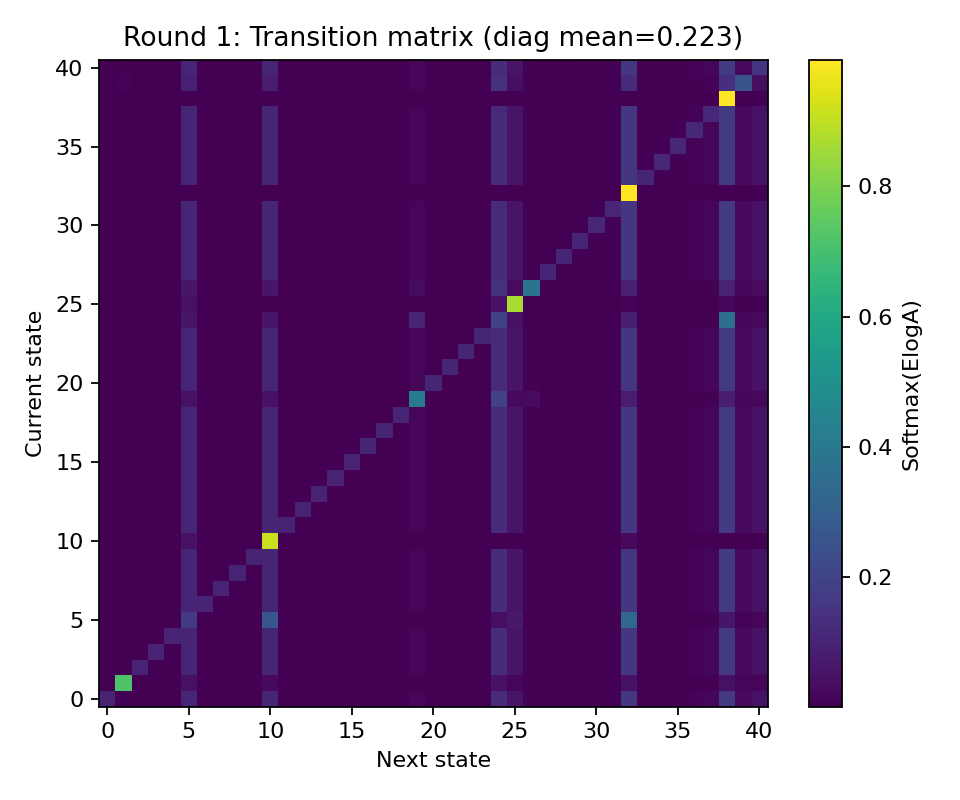
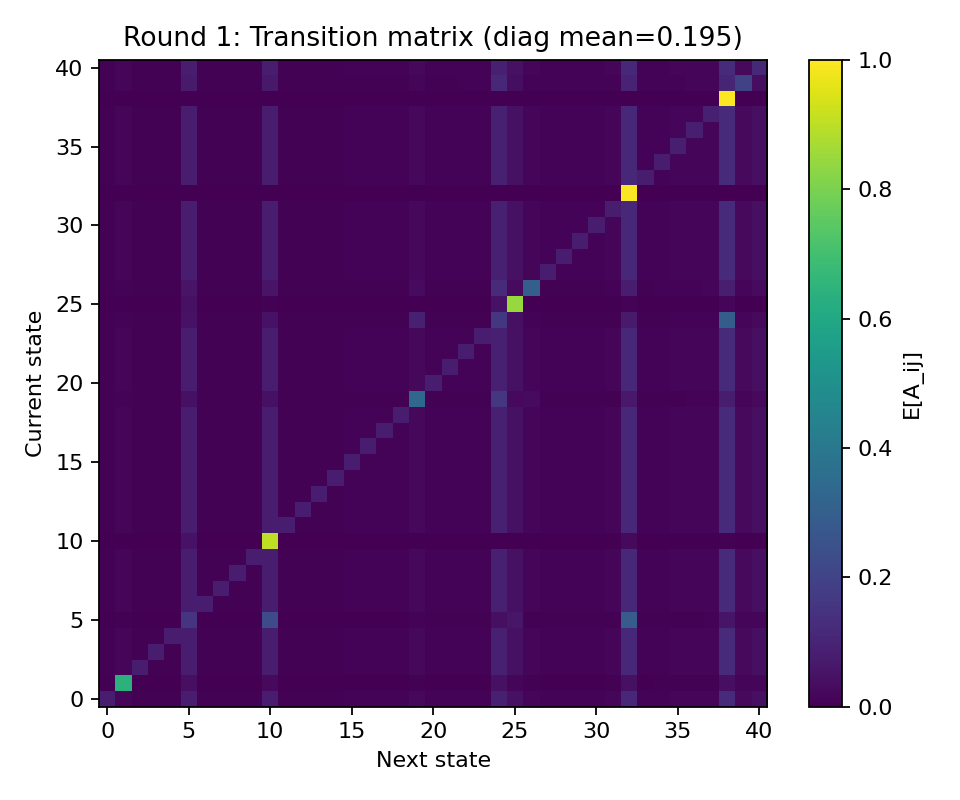
back up

diff --git a/utils/analysis.py b/utils/analysis.py
@@ -1964,13 +1964,30 @@ def _collect_sample_rasters(model, dataset, device, hmm: StickyHDPHMMVI, max_seq
     return rasters, lengths
 
 @torch.no_grad()
-def compute_hmm_diagnostics(model, dataset, device, hmm: StickyHDPHMMVI, max_batches: int = 5, logger=None):
+def compute_hmm_diagnostics(model, dataset, device, hmm: StickyHDPHMMVI, max_batches: int = 5, logger=None, random_seed: int = 42):
     """
     Compute HMM diagnostics on a subset of the dataset
+    
+    Args:
+        model: VAE model for encoding
+        dataset: Dataset to sample from
+        device: Device to run on
+        hmm: HMM model
+        max_batches: Maximum number of batches to process
+        logger: Optional logger
+        random_seed: Random seed for reproducible sampling
     """
+    import random
+    random.seed(random_seed)
+    np.random.seed(random_seed)
+    
     model.eval()
     n_batches = min(len(dataset), max_batches)
     B, T = dataset[0]['tty_chars'].shape[:2]
+    
+    # Create shuffled indices for random sampling
+    dataset_indices = list(range(len(dataset)))
+    random.shuffle(dataset_indices)
     
     all_mu = []
     all_var = []
@@ -1979,9 +1996,11 @@ def compute_hmm_diagnostics(model, dataset, device, hmm: StickyHDPHMMVI, max_bat
     
     # Collect VAE outputs for diagnostics
     with torch.no_grad():
-        for bi, batch in enumerate(dataset):
-            if bi >= n_batches: 
+        for i in range(n_batches):
+            if i >= len(dataset_indices):
                 break
+            bi = dataset_indices[i]
+            batch = dataset[bi]
                 
             batch_dev = {}
             for k, v in batch.items():
@@ -2032,19 +2051,31 @@ def compute_hmm_diagnostics(model, dataset, device, hmm: StickyHDPHMMVI, max_bat
 @torch.no_grad()
 def visualize_hmm_after_estep(
     model, dataset, device, hmm: StickyHDPHMMVI, save_dir: str, round_idx: int,
-    logger=None, max_diags_batches: int = 5, max_raster_sequences: int = 6
+    logger=None, max_diags_batches: int = 5, max_raster_sequences: int = 6, random_seed: int = 42
 ):
     """
     Produce a small set of plots summarizing the HMM after the E-step.
     Saves figures under {save_dir}/round_{round_idx:02d}/ and returns a dict of paths.
+    
+    Args:
+        model: VAE model for encoding
+        dataset: Dataset to sample from
+        device: Device to run on
+        hmm: HMM model
+        save_dir: Directory to save results
+        round_idx: Round index for naming
+        logger: Optional logger
+        max_diags_batches: Maximum number of batches for diagnostics
+        max_raster_sequences: Maximum number of sequences for raster plots
+        random_seed: Random seed for reproducible sampling
     """
     round_dir = os.path.join(save_dir, f"round_{round_idx:02d}")
     os.makedirs(round_dir, exist_ok=True)
 
     # 1) quick diagnostics and basic tensors
-    diags = compute_hmm_diagnostics(model, dataset, device, hmm, max_batches=max_diags_batches, logger=logger)
+    diags = compute_hmm_diagnostics(model, dataset, device, hmm, max_batches=max_diags_batches, logger=logger, random_seed=random_seed)
     pi_hat = diags["occupancy_pi_hat"].cpu().numpy()
-    A_bar  = torch.softmax(hmm._ElogA(), dim=1).cpu().numpy()  # proxy for E[A]
+    A = hmm._EA().cpu().numpy()  # E[A]
     mu_k, E_Lambda, _ = hmm.get_emission_expectations()        # [K,D], [K,D,D], [K]
     mu_k = mu_k.cpu().numpy()
 
@@ -2061,11 +2092,11 @@ def visualize_hmm_after_estep(
 
     # 3) figure: transition heatmap
     f2 = plt.figure(figsize=(6, 5))
-    plt.imshow(A_bar, origin="lower", aspect="auto")
-    plt.colorbar(label="Softmax(ElogA)")
+    plt.imshow(A, origin="lower", aspect="auto", vmin=0., vmax=1., interpolation='nearest')
+    plt.colorbar(label="E[A_ij]")
     plt.xlabel("Next state")
     plt.ylabel("Current state")
-    diag_mean = float(np.mean(np.diag(A_bar)))
+    diag_mean = float(np.mean(np.diag(A)))
     plt.title(f"Round {round_idx}: Transition matrix (diag mean={diag_mean:.3f})")
     plt.tight_layout()
     path_A = os.path.join(round_dir, f"round{round_idx:02d}_A_heatmap.png")
@@ -2135,7 +2166,7 @@ def visualize_hmm_after_estep(
         path_pca = None
 
     # 5) figure: skill rasters on a few sequences
-    rasters, lengths = _collect_sample_rasters(model, dataset, device, hmm, max_sequences=max_raster_sequences)
+    rasters, lengths = _collect_sample_rasters(model, dataset, device, hmm, max_sequences=max_raster_sequences, random_seed=random_seed)
     if len(rasters) > 0:
         maxT = max(lengths)
         canvas = np.full((len(rasters), maxT), fill_value=-1, dtype=np.int32)
@@ -2151,6 +2182,80 @@ def visualize_hmm_after_estep(
         f4.savefig(path_raster, dpi=160); plt.close(f4)
     else:
         path_raster = None
+
+    # 6) figure: Top 5 empirical dwell-time PMFs with geometric overlay
+    try:
+        if "all_lengths" in diags and "p_stay" in diags and "top5_idx" in diags:
+            all_lengths = diags["all_lengths"]
+            p_stay = diags["p_stay"].cpu().numpy()
+            top5_idx = diags["top5_idx"].cpu().numpy()
+            
+            # Create subplot grid: 2x3 (will use 5 subplots)
+            f5, axes = plt.subplots(2, 3, figsize=(15, 8))
+            axes = axes.flatten()
+            
+            max_bins = 50  # Maximum number of bins to show
+            
+            for i, state_idx in enumerate(top5_idx[:5]):  # Top 5 states
+                ax = axes[i]
+                state_idx = int(state_idx)
+                
+                # Get empirical dwell lengths for this state
+                empirical_lengths = all_lengths[state_idx]
+                
+                if len(empirical_lengths) > 0:
+                    # Create histogram of empirical lengths
+                    max_len = min(max(empirical_lengths), max_bins)
+                    bins = np.arange(1, max_len + 2) - 0.5  # Bins centered on integers
+                    counts, _ = np.histogram(empirical_lengths, bins=bins)
+                    pmf_empirical = counts / counts.sum()
+                    
+                    # Plot empirical PMF
+                    x_vals = np.arange(1, max_len + 1)
+                    ax.bar(x_vals, pmf_empirical, alpha=0.7, label='Empirical', color='steelblue')
+                    
+                    # Compute and overlay geometric PMF
+                    p_stay_state = p_stay[state_idx]
+                    if p_stay_state < 0.999:  # Avoid division by zero
+                        p_exit = 1.0 - p_stay_state
+                        # Geometric PMF: P(L=k) = (1-p)^(k-1) * p for k=1,2,3,...
+                        geometric_pmf = [(p_stay_state**(k-1)) * p_exit for k in x_vals]
+                        ax.plot(x_vals, geometric_pmf, 'r-', linewidth=2, label='Geometric', alpha=0.8)
+                    
+                    # Formatting
+                    ax.set_xlabel('Dwell length')
+                    ax.set_ylabel('Probability')
+                    ax.set_title(f'State {state_idx} (π̂={pi_hat[state_idx]:.3f})')
+                    ax.legend()
+                    ax.grid(True, alpha=0.3)
+                    
+                    # Set reasonable axis limits
+                    ax.set_xlim(0.5, min(max_len + 0.5, max_bins + 0.5))
+                    
+                else:
+                    # No data for this state
+                    ax.text(0.5, 0.5, f'State {state_idx}\\nNo dwell data', 
+                           transform=ax.transAxes, ha='center', va='center', fontsize=12)
+                    ax.set_xlabel('Dwell length')
+                    ax.set_ylabel('Probability')
+                    ax.set_title(f'State {state_idx} (π̂={pi_hat[state_idx]:.3f})')
+            
+            # Hide the last subplot if we have only 5 states
+            if len(top5_idx) < 6:
+                axes[5].set_visible(False)
+            
+            plt.suptitle(f'Round {round_idx}: Top 5 States - Empirical vs Geometric Dwell-time PMFs', fontsize=14)
+            plt.tight_layout()
+            
+            path_dwell = os.path.join(round_dir, f"round{round_idx:02d}_dwell_pmfs.png")
+            f5.savefig(path_dwell, dpi=160, bbox_inches='tight')
+            plt.close(f5)
+        else:
+            path_dwell = None
+    except Exception as e:
+        if logger:
+            logger.warning(f"Failed to create dwell-time PMF plot: {e}")
+        path_dwell = None
 
     # Save a small JSON snapshot for quick diffing
     snap = {
@@ -2173,5 +2278,6 @@ def visualize_hmm_after_estep(
         "A_heatmap": path_A,
         "mu_pca": path_pca,
         "skill_raster": path_raster,
+        "dwell_pmfs": path_dwell,
         "diags_json": json_path,
     }

diff --git a/src/skill_space.py b/src/skill_space.py
@@ -6,6 +6,7 @@ from typing import Optional, Tuple, Dict, List
 import torch
 import torch.nn as nn
 import torch.nn.functional as F
+import numpy as np
 
 # ---------- helpers ----------------------------------------------------------
 
@@ -403,6 +404,52 @@ class StickyHDPHMMVI(nn.Module):
             path[t] = psi[t+1, path[t+1]]
             
         return path, float(log_prob.item())
+    
+    @torch.no_grad()
+    def viterbi_paths(
+        self,
+        mu_t, diag_var_t=None, F_t=None, mask=None
+    ):
+        """Decode each sequence; return list of 1D long tensors (one per sequence)."""
+        logB = StickyHDPHMMVI.expected_emission_loglik(
+            self.niw.mu, self.niw.kappa, self.niw.Psi, self.niw.nu,
+            mu_t, diag_var_t, F_t, mask
+        )
+        if logB.dim() == 2: logB = logB.unsqueeze(0)
+        B, T, K = logB.shape
+        log_pi = torch.log(torch.clamp(self._Epi(), min=1e-30))
+        logA = self._ElogA()
+        paths = []
+        for b in range(B):
+            lb = logB[b]
+            if mask is not None:
+                m = mask[b].bool()
+                z_full = torch.full((T,), K-1, dtype=torch.long, device=lb.device)  # any default
+                z_obs, _ = StickyHDPHMMVI.viterbi(log_pi, logA, lb[m])
+                z_full[m] = z_obs
+                z = z_full[m]    # only valid frames
+            else:
+                z, _ = StickyHDPHMMVI.viterbi(log_pi, logA, lb)
+            paths.append(z)
+        return paths
+
+    @staticmethod
+    @torch.no_grad()
+    def dwell_stats_from_path(z: torch.Tensor, K: int):
+        """Return per-state list of run-lengths and their means from a 1D path."""
+        lens = [[] for _ in range(K)]
+        if z.numel() == 0: return lens, [0. for _ in range(K)]
+        prev, r = int(z[0]), 1
+        for t in range(1, z.numel()):
+            cur = int(z[t])
+            if cur == prev:
+                r += 1
+            else:
+                lens[prev].append(r)
+                prev, r = cur, 1
+        lens[prev].append(r)
+        means = [float(torch.tensor(ls).float().mean().item()) if len(ls) else 0. for ls in lens]
+        return lens, means
 
     # ---- M-step: sufficient stats from encoder -------------------------------
     @torch.no_grad()
@@ -520,6 +567,12 @@ class StickyHDPHMMVI(nn.Module):
         self.u_beta.data.copy_(u_beta.detach())
 
     # ---- transitions & π -----------------------------------------------------
+    @torch.no_grad()
+    def _EA(self) -> torch.Tensor:
+        """Row-wise mean of transitions under Dirichlet posterior."""
+        phi = torch.clamp(self.dir.phi, min=1e-8)
+        return phi / phi.sum(dim=1, keepdim=True)
+    
     def _ElogA(self) -> torch.Tensor:
         phi = self.dir.phi  # [Kp1,Kp1]
         return torch.special.digamma(phi) - torch.special.digamma(phi.sum(dim=1, keepdim=True))
@@ -1038,14 +1091,26 @@ class StickyHDPHMMVI(nn.Module):
         ent = (- (r_cat.clamp_min(1e-9) * r_cat.clamp_min(1e-9).log()).sum(dim=1)).mean().item()
 
         # transition diagnostics from ElogA proxy
-        A_bar = self.dir.phi / self.dir.phi.sum(dim=1, keepdim=True)   # [Kp1,Kp1]
-        diag_ratio = float(torch.diagonal(A_bar, dim1=0, dim2=1).mean().item())
+        EA = self._EA().cpu()  # [Kp1,Kp1]
+        diag_ratio = float(torch.diagonal(EA, dim1=0, dim2=1).mean().item())
 
         # effective number of skills
         effK = float(torch.exp(-(pi_hat * (pi_hat + 1e-12).log()).sum()).item())
 
         topk_vals, topk_idx = torch.topk(pi_hat, k=min(5, self.niw.mu.shape[0]))
         avg_ll_per_step = float(ll_total / max(steps, 1))
+
+        paths = self.viterbi_paths(mu_t, diag_var_t, F_t, mask=mask)
+        Kp1 = self.niw.mu.size(0)
+        all_lens = [[] for _ in range(Kp1)]
+        for z in paths:
+            lens, _ = StickyHDPHMMVI.dwell_stats_from_path(z, Kp1)
+            for k in range(Kp1):
+                all_lens[k].extend(lens[k])
+
+        p_stay = EA.diag()                     # E[A_kk]
+        mean_geo = (1.0 / (1.0 - p_stay)).clamp(max=1e6)  # expected dwell for geometric
+        emp_mean = torch.tensor([np.mean(L) if len(L) else 0. for L in all_lens])
 
         return {
             "avg_loglik_per_step": avg_ll_per_step,
@@ -1055,7 +1120,10 @@ class StickyHDPHMMVI(nn.Module):
             "top5_pi": topk_vals,
             "top5_idx": topk_idx,
             "stickiness_diag_mean": diag_ratio,
-            "expected_dwell_length_per_state": 1.0 / (1.0 - A_bar.detach().diag())
+            "p_stay": p_stay,
+            "expected_dwell_length_per_state": mean_geo,
+            "empirical_dwell_length_per_state": emp_mean,
+            "all_lengths": all_lens
         }
 
 

diff --git a/training/train.py b/training/train.py
@@ -1743,9 +1743,10 @@ def train_vae_with_sticky_hmm_em(
             logger.info(f"  - State entropy: {diagnostics['state_entropy']:.4f}")
             logger.info(f"  - Effective number of skills: {diagnostics['effective_K']:.2f}")
             logger.info(f"  - Transition stickiness (diag): {diagnostics['stickiness_diag_mean']:.4f}")
-            logger.info(f"  - Expected dwell lengths per state: {diagnostics['expected_dwell_length_per_state'].cpu().numpy().tolist()}")
             logger.info(f"  - Top 5 skill occupancies: {diagnostics['top5_pi'].tolist()}")
             logger.info(f"  - Top 5 skill indices: {diagnostics['top5_idx'].tolist()}")
+            for k in torch.argsort(diagnostics['p_stay'], descending=True)[:5]:
+                logger.info(f"    - Skill {k}: emp={diagnostics['empirical_dwell_length_per_state'][k]:6.2f}  E[1/(1-p)]:{float(diagnostics['expected_dwell_length_per_state'][k]):6.2f}  p_stay={float(diagnostics['p_stay'][k]):.3f}")
 
         # Log HMM diagnostics to wandb
         if use_wandb and WANDB_AVAILABLE:
@@ -1755,6 +1756,7 @@ def train_vae_with_sticky_hmm_em(
                 f"em_round_{r+1}/effective_K": diagnostics['effective_K'],
                 f"em_round_{r+1}/stickiness_diag_mean": diagnostics['stickiness_diag_mean'],
                 f"em_round_{r+1}/expected_dwell_length_per_state": diagnostics['expected_dwell_length_per_state'].cpu().numpy().tolist(),
+                f"em_round_{r+1}/empirical_dwell_length_per_state": diagnostics['empirical_dwell_length_per_state'].cpu().numpy().tolist(),
                 f"em_round_{r+1}/top5_pi": diagnostics['top5_pi'].tolist(),
                 f"em_round_{r+1}/top5_idx": diagnostics['top5_idx'].tolist(),
             })

diff --git a/main.py b/main.py
@@ -324,8 +324,9 @@ if __name__ == "__main__":
                 save_dir=analysis_dir,
                 round_idx=analysis_round,
                 logger=logger,
-                max_diags_batches=5,
-                max_raster_sequences=10
+                max_diags_batches=20,
+                max_raster_sequences=10,
+                random_seed=100
             )
             
             print(f"✅ HMM analysis completed!")
